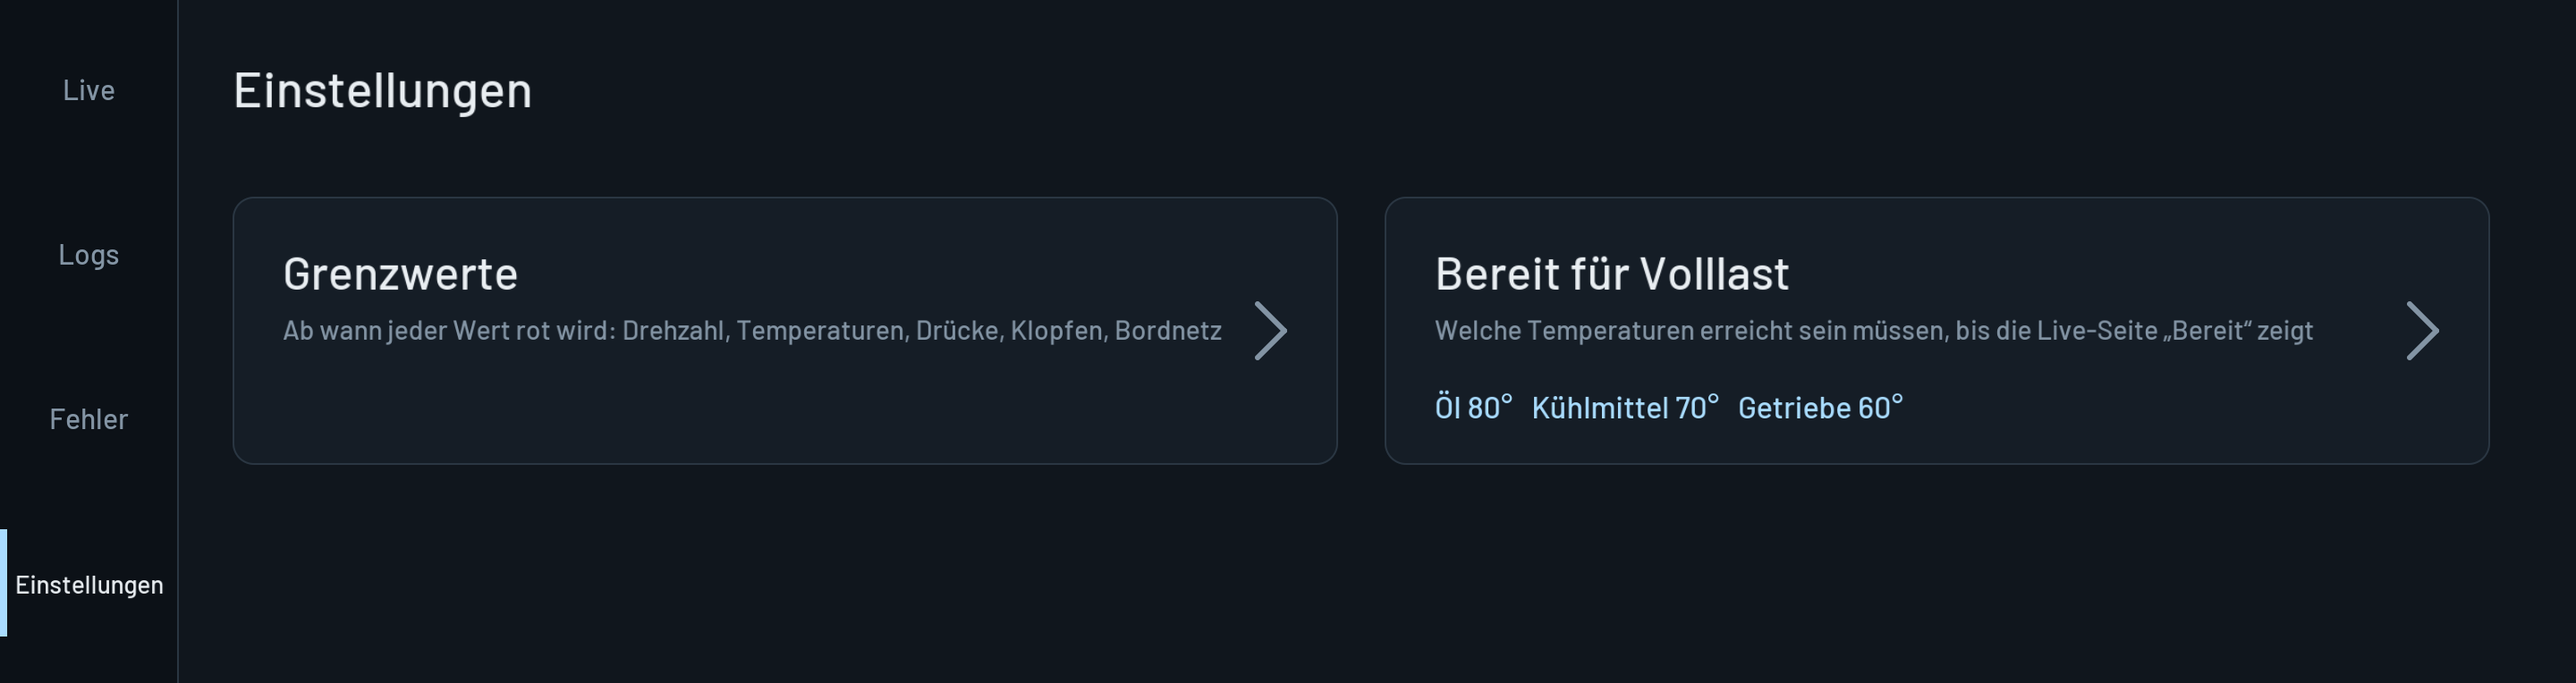
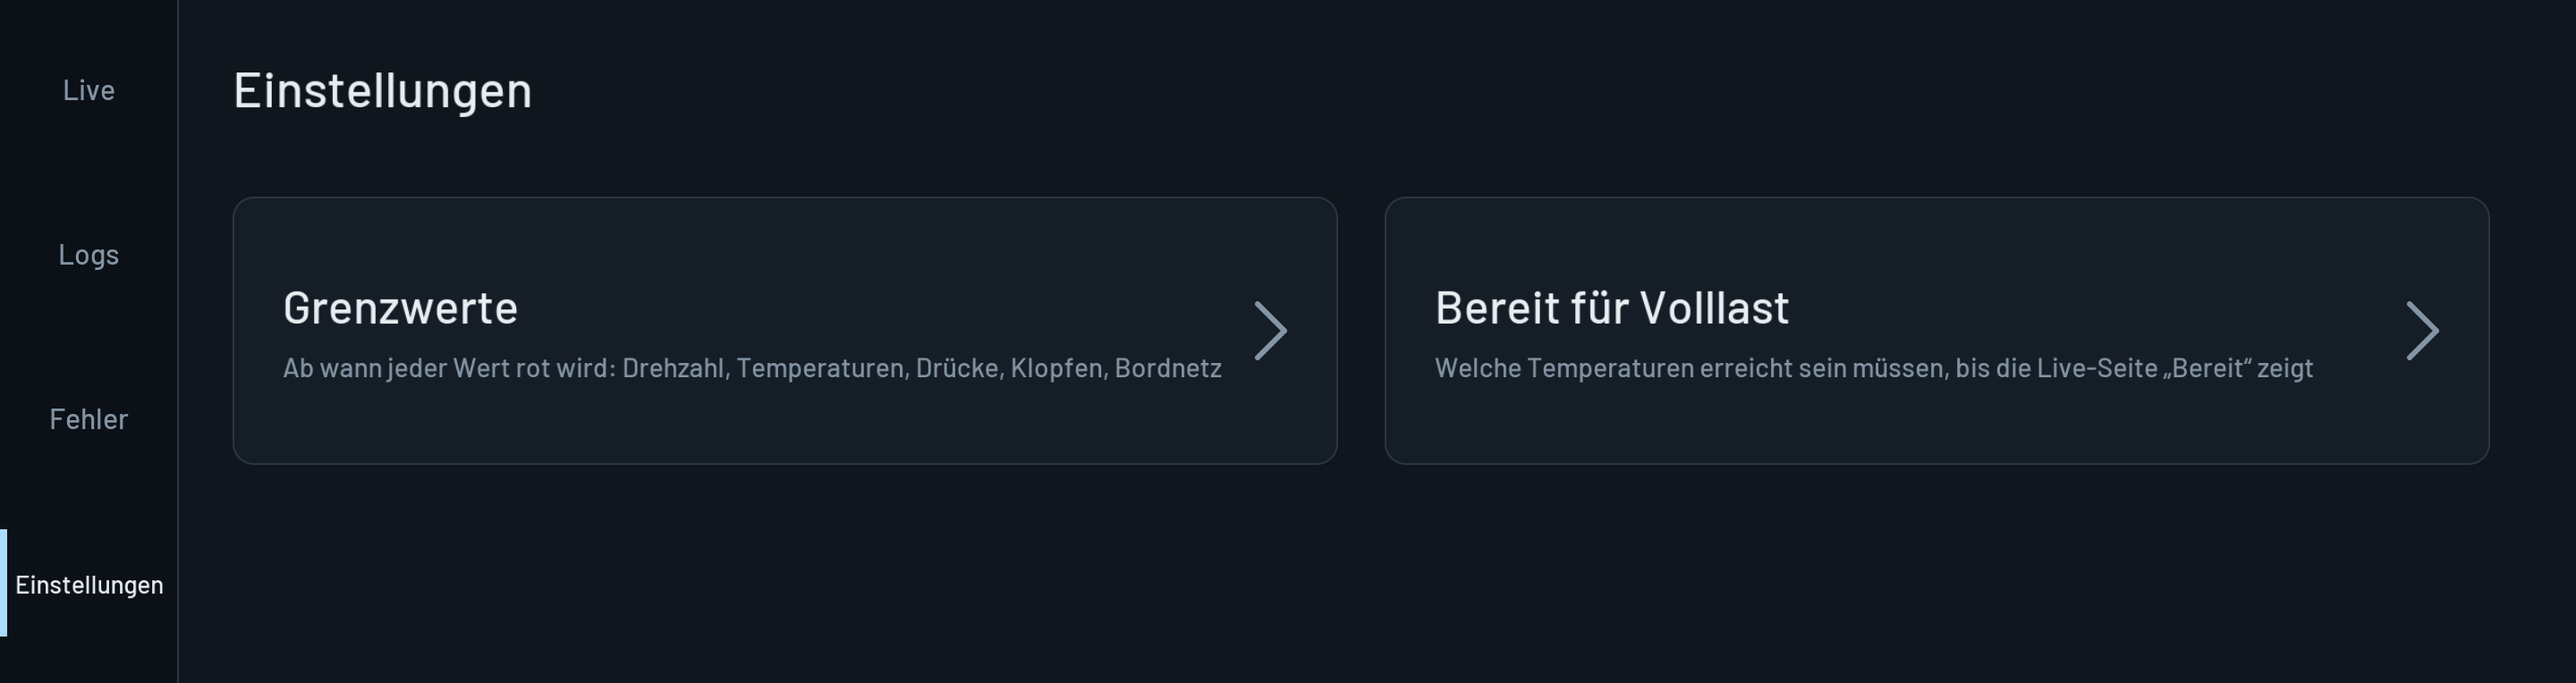
0.16.3: the settings cards title and description only, centred

Changed region(s): [[0.5312, 0.3613, 0.9062, 0.6322], [0.0938, 0.3914, 0.4688, 0.572]]

diff --git a/apps/km_motordaten/src/dash.js b/apps/km_motordaten/src/dash.js
@@ -487,13 +487,9 @@ function settingsMenu(rec, cfg, ui) {
         const focus = ui && ui.focus === m.id;
         rec.roundRect(m.x, m.y, m.w, m.h, 24, ui && ui.pressed === m.id ? C.line : '#151D26');
         rec.strokeRoundRect(m.x, m.y, m.w, m.h, 24, focus ? 5 : 2, focus ? C.ice : C.line);
-        rec.text(m.label, m.x + 56, m.y + 104, 52, C.text, { font: 'label' });
-        rec.text(m.text, m.x + 56, m.y + 160, 30, C.dim, { font: 'label' });
-        // the ready card names what counts now; the limits card nothing (resetting is on its page)
-        if (m.page === 'ready') {
-            const on = L.READY.filter((r) => cfg[r.on]);
-            rec.text(on.length ? on.map((r) => `${r.short} ${cfg[r.at]}°`).join('   ') : 'Aus', m.x + 56, m.y + m.h - 52, 34, C.ice, { font: 'label' });
-        }
+        // title and what it holds, centred on the card's height
+        rec.text(m.label, m.x + 56, m.y + m.h / 2 - 8, 52, C.text, { font: 'label' });
+        rec.text(m.text, m.x + 56, m.y + m.h / 2 + 52, 30, C.dim, { font: 'label' });
         const cx = m.x + m.w - 72;
         const cy = m.y + m.h / 2;
         rec.polyline([[cx - 18, cy - 30], [cx + 12, cy], [cx - 18, cy + 30]], 6, C.dim);
